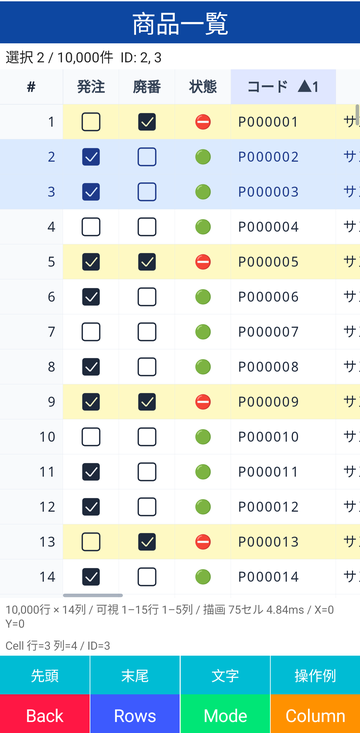
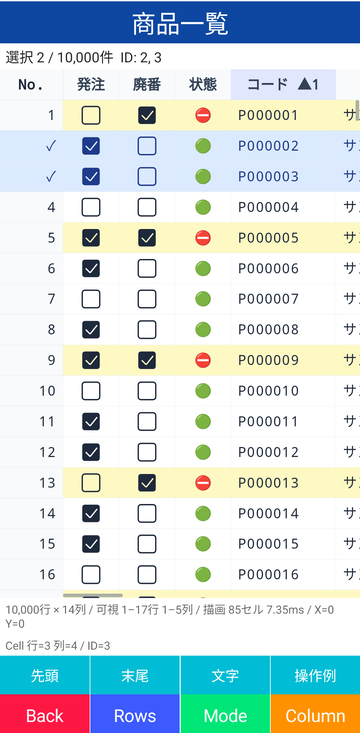
Update

diff --git a/Example/Modules/Grid/QualityVerifier.Colors.cs b/Example/Modules/Grid/QualityVerifier.Colors.cs
@@ -86,6 +86,15 @@ public sealed partial class QualityVerifier
             Check("colors: no unregistered sort state", headers.All(static context => context.SortOrder is null && context.SortPriority == -1));
         }
 
+        await NextFrameAsync(() => probe.GridStyle = probe.GridStyle with { RowHeaderText = static context => context.RowIndex == 0 ? "S" : String.Empty, CornerText = String.Empty }).ConfigureAwait(true);
+        using (var bitmap = RenderBitmap())
+        {
+            Check("colors: row header text callback draws the text", CountForeground(bitmap, ToBitmapRect(bitmap, new Rect(0, 40, 48, 40)), Colors.Yellow) >= 3);
+            Check("colors: empty row header text draws no glyph", CountForeground(bitmap, ToBitmapRect(bitmap, new Rect(0, 80, 48, 40)), Colors.Black) == 0);
+            Check("colors: empty corner text draws no glyph", CountForeground(bitmap, ToBitmapRect(bitmap, new Rect(0, 0, 48, 40)), Colors.Black) == 0);
+        }
+
+        await NextFrameAsync(() => probe.GridStyle = probe.GridStyle with { RowHeaderText = null, CornerText = "#" }).ConfigureAwait(true);
         await NextFrameAsync(() => backgroundOnly = true).ConfigureAwait(true);
         using (var bitmap = RenderBitmap())
         {
@@ -186,10 +195,20 @@ public sealed partial class QualityVerifier
 
     private void CheckColors(SKBitmap bitmap, Rect rect, Color background, Color foreground, string name)
     {
+        rect = ToBitmapRect(bitmap, rect);
+        Check($"colors: {name} background pixels", bitmap.GetPixel((int)rect.X + 2, (int)rect.Y + 2) == background.ToSKColor());
+        Check($"colors: {name} foreground pixels", CountForeground(bitmap, rect, foreground) >= 3);
+    }
+
+    private Rect ToBitmapRect(SKBitmap bitmap, Rect rect)
+    {
         var scaleX = bitmap.Width / grid.Width;
         var scaleY = bitmap.Height / grid.Height;
-        rect = new Rect(rect.X * scaleX, rect.Y * scaleY, rect.Width * scaleX, rect.Height * scaleY);
-        Check($"colors: {name} background pixels", bitmap.GetPixel((int)rect.X + 2, (int)rect.Y + 2) == background.ToSKColor());
+        return new Rect(rect.X * scaleX, rect.Y * scaleY, rect.Width * scaleX, rect.Height * scaleY);
+    }
+
+    private static int CountForeground(SKBitmap bitmap, Rect rect, Color foreground)
+    {
         var target = foreground.ToSKColor();
         var matches = 0;
         for (var y = (int)rect.Y + 7; y < Math.Min(bitmap.Height, rect.Bottom - 7); y++)
@@ -205,7 +224,7 @@ public sealed partial class QualityVerifier
             }
         }
 
-        Check($"colors: {name} foreground pixels", matches >= 3);
+        return matches;
     }
 
     private sealed class ColorProbeGrid : ClamGridView

diff --git a/ClamGrid/Rendering/GridRenderer.cs b/ClamGrid/Rendering/GridRenderer.cs
@@ -143,7 +143,7 @@ internal sealed class GridRenderer : IDisposable
             var colors = new GridColors(selected ? style.SelectedTextColor : style.TextColor, selected ? style.SelectedBackground : style.RowHeaderBackground);
             colors = colors.Apply(style.RowHeaderColors?.Invoke(new GridRowHeaderColorContext(items[row], row, selected, colors)) ?? default);
             Fill(canvas, rect, colors.Background!);
-            DrawText(canvas, rect, (row + 1).ToString(CultureInfo.InvariantCulture), TextAlignment.End, false, colors.TextColor!);
+            DrawText(canvas, rect, GetRowHeaderText(style, items[row], row, selected), style.RowHeaderAlignment, false, colors.TextColor!);
             if (showRowHandles)
             {
                 paint.Color = colors.TextColor!.ToSKColor();
@@ -161,7 +161,7 @@ internal sealed class GridRenderer : IDisposable
         canvas.Restore();
         var corner = new GridRect(0, 0, layout.RowHeaderWidth, layout.HeaderHeight);
         Fill(canvas, corner, style.RowHeaderBackground);
-        DrawText(canvas, corner, "#", TextAlignment.Center, true, style.TextColor);
+        DrawText(canvas, corner, style.CornerText, TextAlignment.Center, true, style.TextColor);
         DrawLines(canvas, corner);
         DrawScrollbars(canvas, layout);
         return rendered;
@@ -197,6 +197,9 @@ internal sealed class GridRenderer : IDisposable
 
         return -1;
     }
+
+    internal static string GetRowHeaderText(GridStyle style, object item, int rowIndex, bool selected) =>
+        style.RowHeaderText?.Invoke(new GridRowHeaderTextContext(item, rowIndex, selected)) ?? (rowIndex + 1).ToString(CultureInfo.InvariantCulture);
 
     internal static string GetHeaderText(GridStyle style, GridColumn column, IGridDataView? view)
     {

diff --git a/Example/GlobalSuppressions.cs b/Example/GlobalSuppressions.cs
@@ -1,4 +1,4 @@
-[assembly: System.Diagnostics.CodeAnalysis.SuppressMessage("Globalization", "CA1305:Specify IFormatProvider", Justification = "Ignore")]
-[assembly: System.Diagnostics.CodeAnalysis.SuppressMessage("Maintainability", "CA1515:Consider making public types internal", Justification = "Ignore")]
-[assembly: System.Diagnostics.CodeAnalysis.SuppressMessage("Performance", "CA1873:Avoid potentially expensive logging", Justification = "Ignore")]
-[assembly: System.Diagnostics.CodeAnalysis.SuppressMessage("Reliability", "CA2007:Do not directly await a Task", Justification = "Ignore")]
+[assembly: SuppressMessage("Globalization", "CA1305:Specify IFormatProvider", Justification = "Ignore")]
+[assembly: SuppressMessage("Maintainability", "CA1515:Consider making public types internal", Justification = "Ignore")]
+[assembly: SuppressMessage("Performance", "CA1873:Avoid potentially expensive logging", Justification = "Ignore")]
+[assembly: SuppressMessage("Reliability", "CA2007:Do not directly await a Task", Justification = "Ignore")]

diff --git a/ClamGrid.Tests/Rendering/GridRendererTests.cs b/ClamGrid.Tests/Rendering/GridRendererTests.cs
@@ -107,6 +107,24 @@ public sealed class GridRendererTests
         Assert.True(renderer.Measurements > 0);
     }
 
+    [Fact]
+    public void RowHeaderTextCallbackOverridesTheRowNumber()
+    {
+        // Arrange
+        var style = new GridStyle { RowHeaderText = static context => context.IsSelected ? "S" : null };
+        var item = new Item(1);
+
+        // Act
+        var selected = GridRenderer.GetRowHeaderText(style, item, 4, true);
+        var unselected = GridRenderer.GetRowHeaderText(style, item, 4, false);
+        var plain = GridRenderer.GetRowHeaderText(new GridStyle(), item, 4, true);
+
+        // Assert
+        Assert.Equal("S", selected);
+        Assert.Equal("5", unselected);
+        Assert.Equal("5", plain);
+    }
+
     private static GridDataView<Item> CreateView(GridSortOrder[] orders)
     {
         Item[] items = [new(1), new(2)];

diff --git a/ClamGrid/GridStyle.cs b/ClamGrid/GridStyle.cs
@@ -23,6 +23,10 @@ public sealed record GridStyle
 
     public bool ShowVerticalLines { get; set; } = true;
 
+    public string CornerText { get; set; } = "#";
+
+    public TextAlignment RowHeaderAlignment { get; set; } = TextAlignment.End;
+
     public Color TextColor { get; set; } = Color.FromArgb("#1E293B");
 
     public Color Background { get; set; } = Colors.White;
@@ -59,6 +63,9 @@ public sealed record GridStyle
     public Func<GridColumnHeaderColorContext, GridColors>? ColumnHeaderColors { get; set; }
 
     public Func<GridRowHeaderColorContext, GridColors>? RowHeaderColors { get; set; }
+
+    // Row header text by item; null falls back to the row number
+    public Func<GridRowHeaderTextContext, string?>? RowHeaderText { get; set; }
 
     internal void Validate()
     {

diff --git a/Example/MauiProgram.cs b/Example/MauiProgram.cs
@@ -55,6 +55,12 @@ public static partial class MauiProgram
         return builder;
     }
 
+    // Views and view models are registered by naming convention (source generated)
+    [ComponentRegistration(Lifetime.Transient, "Page$", Namespace = "Example")]
+    [ComponentRegistration(Lifetime.Transient, "View$", Namespace = "Example.Modules")]
+    [ComponentRegistration(Lifetime.Transient, "ViewModel$", Namespace = "Example")]
+    public static partial IServiceCollection AddViews(this IServiceCollection services);
+
     // ------------------------------------------------------------
     // Build
     // ------------------------------------------------------------

diff --git a/Example/Modules/Grid/GridListViewModel.cs b/Example/Modules/Grid/GridListViewModel.cs
@@ -211,6 +211,8 @@ public sealed partial class GridListViewModel : AppViewModelBase
         DescendingSortMark = "▼",
         SortMarkPosition = GridSortMarkPosition.End,
         ShowSortPriority = true,
+        CornerText = "No.",
+        RowHeaderText = static context => context.IsSelected ? "✓" : null,
         RowBackground = static x => x is SampleRow { IsDiscontinued: true } ? SampleColumns.DiscontinuedBackground : null
     };
 

diff --git a/ClamGrid/GridRowHeaderTextContext.cs b/ClamGrid/GridRowHeaderTextContext.cs
@@ -1,0 +1,4 @@
+namespace ClamGrid;
+
+// Row header being painted; RowIndex follows the current display order
+public readonly record struct GridRowHeaderTextContext(object Item, int RowIndex, bool IsSelected);

diff --git a/README.md b/README.md
@@ -2,16 +2,16 @@
 
 [![NuGet](https://img.shields.io/nuget/v/ClamGrid.svg)](https://www.nuget.org/packages/ClamGrid/)
 
-## What is this?
+## 🐚 What is this?
 
 A .NET MAUI grid view for Android that draws cells with SkiaSharp.
 Layout, sorting, selection and touch handling are implemented in C#, so the grid stays responsive with tens of thousands of rows.
 
-| Selection, sorting and boolean editing | Conditional colors | Columns declared in XAML |
+| 🖱 Selection, sorting and boolean editing | 🎨 Conditional colors | 🧾 Columns declared in XAML |
 |:-:|:-:|:-:|
 | <img src="Document/list.png" width="240" /> | <img src="Document/color.png" width="240" /> | <img src="Document/ticket.png" width="240" /> |
 
-## Quick Start
+## 🚀 Quick Start
 
 Call `UseSkiaSharp()` when building the application.
 
@@ -73,7 +73,7 @@ The sort indicator of a header is text: `AscendingSortMark` / `DescendingSortMar
 The grid scrolls by itself, so place it where it receives a definite size (for example a `*` row of a `Grid`).
 Tapping a column header sorts by the registered key, tapping a row toggles the selection, and a long press selects or clears all rows.
 
-## Binding and MVVM
+## 🔗 Binding and MVVM
 
 Everything a view model needs is a bindable property or a command, so a screen can be declared in XAML without code-behind. `Example/Modules/Ticket` together with `Example/Modules/Parts/TicketGrid.xaml` is a complete screen built this way.
 
@@ -157,7 +157,7 @@ public sealed class TicketListViewModel : ObservableObject
 
 Messaging, navigation and screen controllers are application concerns; the library exposes bindables, commands and events only.
 
-## Supported features
+## ✅ Supported features
 
 | Category | Detail |
 |---|---|
@@ -169,11 +169,11 @@ Messaging, navigation and screen controllers are application concerns; the libra
 | **Editing** | Boolean cell toggle |
 | **Row dragging** | Reorder rows by dragging the row header |
 | **Input** | Tap, long press, pan with inertia, column resize, commands for MVVM |
-| **Styling** | `GridStyle` with font, padding, colors, sort marks and conditional color callbacks. Characters missing from the font (emoji and so on) fall back to the typefaces in `GridFonts.Fallbacks` and then to system fonts per character, guided by `GridFonts.Languages` |
+| **Styling** | `GridStyle` with font, padding, colors, sort marks, row header text and conditional color callbacks. Characters missing from the font (emoji and so on) fall back to the typefaces in `GridFonts.Fallbacks` and then to system fonts per character, guided by `GridFonts.Languages` |
 
-## ClamGridView API
+## 📖 ClamGridView API
 
-### Properties
+### 🧩 Properties
 
 | Name | Type | Default | Description |
 |---|---|---|---|
@@ -207,7 +207,7 @@ Messaging, navigation and screen controllers are application concerns; the libra
 | `InputState` | `GridGestureState` | | Current gesture state. |
 | `IsInertiaRunning` | `bool` | | Whether inertial scrolling is in progress. |
 
-### Methods
+### 🛠 Methods
 
 | Name | Returns | Description |
 |---|---|---|
@@ -231,7 +231,7 @@ Messaging, navigation and screen controllers are application concerns; the libra
 | `InvalidateSurface()` | `void` | Redraws the grid. |
 | `Dispose()` | `void` | Releases the data view subscriptions, timers and native resources. |
 
-### Events
+### 📣 Events
 
 | Name | EventArgs | Description |
 |---|---|---|
@@ -250,7 +250,7 @@ Messaging, navigation and screen controllers are application concerns; the libra
 | `RowMoved` | `GridRowMoveEventArgs` | Row moved. |
 | `FrameRendered` | `GridFrameEventArgs` | Render statistics of a frame. |
 
-## GridColumn
+## 📐 GridColumn
 
 | Name | Type | Default | Description |
 |---|---|---|---|
@@ -268,7 +268,7 @@ Messaging, navigation and screen controllers are application concerns; the libra
 | `AllowSorting` | `bool` | `true` | A header tap sorts the column. |
 | `AllowResizing` | `bool` | `true` | The header boundary can be dragged. |
 
-## GridStyle
+## 🎨 GridStyle
 
 | Name | Type | Default | Description |
 |---|---|---|---|
@@ -278,15 +278,18 @@ Messaging, navigation and screen controllers are application concerns; the libra
 | `RowHeight`, `HeaderHeight` | `double?` | `null` | `null` derives the height from the font. |
 | `RowHeaderWidth` | `double` | `48` | Width of the row header. |
 | `ShowColumnHeaders`, `ShowRowHeaders`, `ShowVerticalLines` | `bool` | `true` | Visibility of the headers and vertical lines. |
+| `CornerText` | `string` | `#` | Text of the corner cell above the row headers. |
+| `RowHeaderAlignment` | `TextAlignment` | `End` | Alignment of the row header text. |
 | `TextColor`, `Background`, `HeaderBackground`, `HeaderTextColor`, `RowHeaderBackground`, `GridLineColor`, `SelectedBackground`, `SelectedTextColor` | `Color` | | Base colors. |
 | `AscendingHeaderBackground`, `DescendingHeaderBackground` | `Color` | | Header background of the primary sort key. |
 | `AscendingSortMark`, `DescendingSortMark` | `string` | `↑`, `↓` | Text drawn next to the header of a sorted column. The mark is kept when the header text has to be truncated. |
 | `SortMarkPosition` | `GridSortMarkPosition` | `Start` | `Start` draws the mark before the header text, `End` after it. |
 | `ShowSortPriority` | `bool` | `false` | With several sort keys, marks the secondary keys too and appends the priority (`▲2`). |
 | `RowBackground` | `Func<object, Color?>?` | `null` | Row background by item. |
+| `RowHeaderText` | `Func<GridRowHeaderTextContext, string?>?` | `null` | Row header text by item and selection state; `null` falls back to the row number. |
 | `CellColors`, `ColumnHeaderColors`, `RowHeaderColors` | callback | `null` | Per cell and per header colors; the context carries the item, the column, the sort state and the default colors. |
 
-## GridFonts
+## 🔤 GridFonts
 
 Global font fallback settings. They are read when a grid creates its renderer, so set them at startup, before the first grid is shown.
 
@@ -300,7 +303,7 @@ GridFonts.Languages = ["ja", "en"];
 GridFonts.Fallbacks = [SKTypeface.FromStream(await FileSystem.OpenAppPackageFileAsync("NotoSansJP-Regular.ttf"))];
 ```
 
-## GridDataView&lt;T&gt;
+## 🗂 GridDataView&lt;T&gt;
 
 | Member | Description |
 |---|---|
@@ -312,6 +315,6 @@ GridFonts.Fallbacks = [SKTypeface.FromStream(await FileSystem.OpenAppPackageFile
 | `SetSource(rows)`, `Refresh()`, `Suspend()` / `Resume()` | Replace the rows, rebuild them or batch changes. |
 | `Changed`, `SelectionChanged`, `SortRequested`, `SortChanged`, `SortFailed` | Events with the same meaning as on the view. |
 
-## Dependencies
+## 📦 Dependencies
 
 - [SkiaSharp](https://github.com/mono/SkiaSharp)
